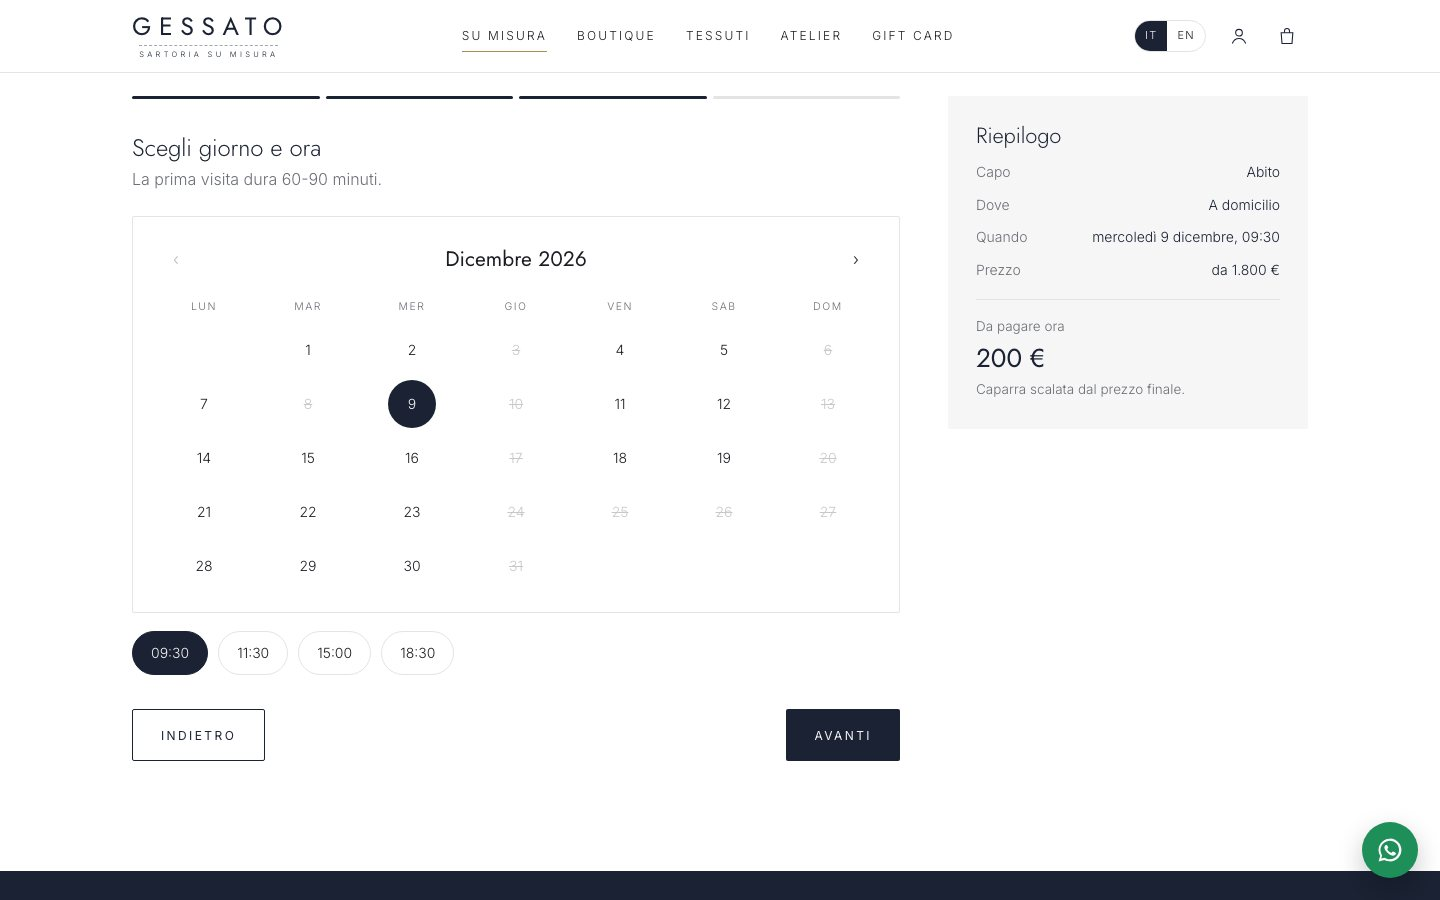
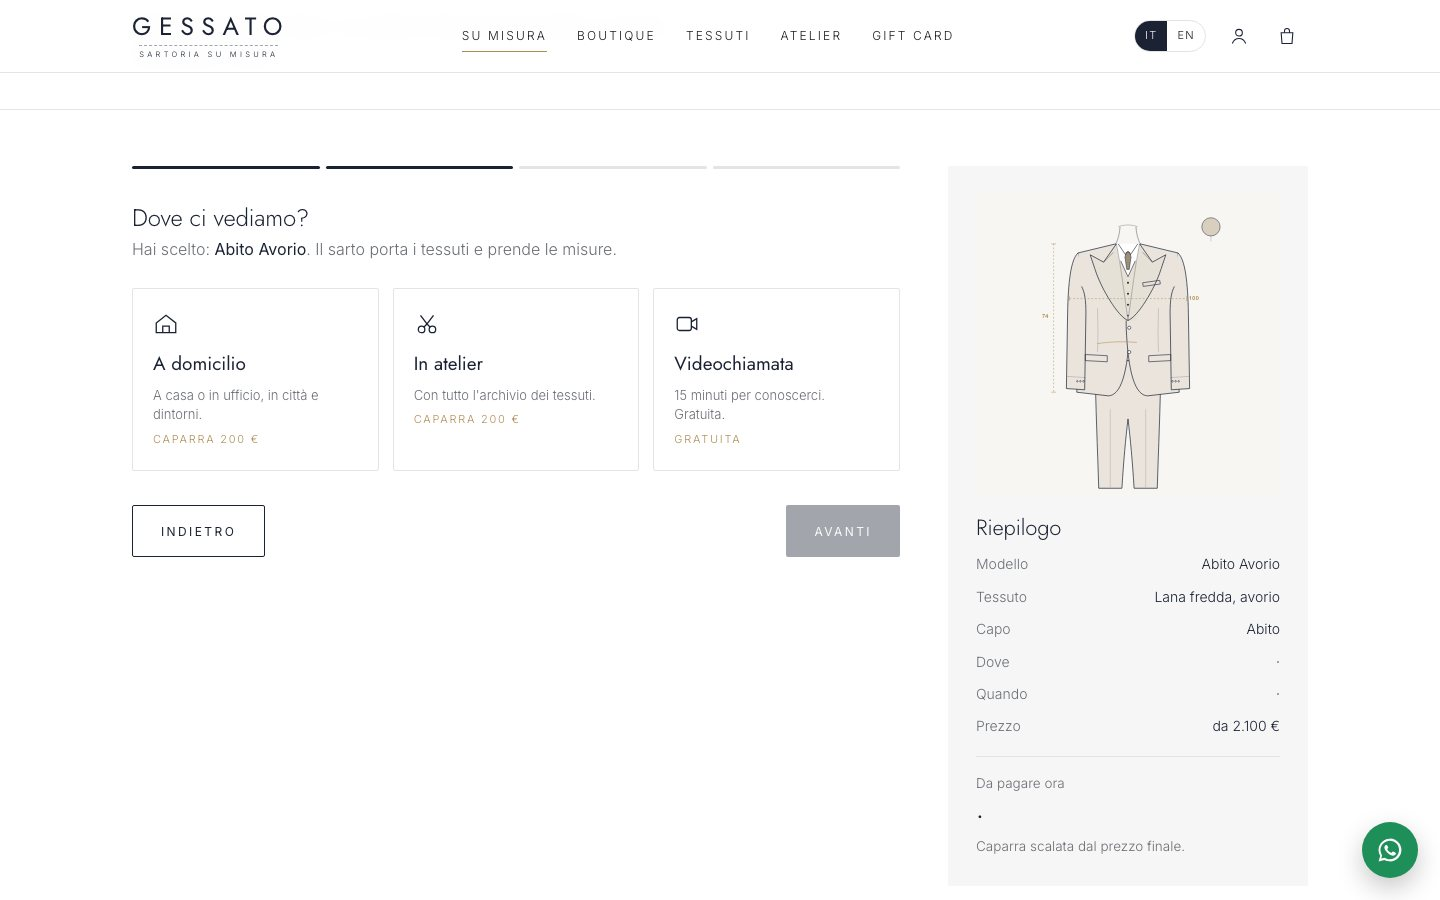
Sartoria: presentazione più leggibile, schermate demo aggiornate

diff --git a/sartoria-presentazione/index.html b/sartoria-presentazione/index.html
@@ -15,29 +15,29 @@
 <link href="https://fonts.googleapis.com/css2?family=Jost:wght@200;300;400&family=Inter:wght@300;400&display=swap" rel="stylesheet">
 <style>
 :root{
-  --ink:#1a2233; --grey:#8a8c90; --grey2:#5f6266; --hair:#e6e6e6; --soft:#f7f7f6; --brass:#b08d57;
+  --ink:#1a2233; --grey:#5a5f69; --grey2:#2b2f38; --brass-t:#86672f; --hair:#e6e6e6; --soft:#f7f7f6; --brass:#b08d57;
   --title:'Jost','Helvetica Neue',Arial,sans-serif; --text:'Inter','Helvetica Neue',Arial,sans-serif;
   --pad:7vw;
 }
 *{box-sizing:border-box;margin:0;padding:0}
 html{scroll-behavior:smooth}
-body{background:#fff;color:var(--ink);font-family:var(--text);font-weight:300;-webkit-font-smoothing:antialiased;text-rendering:optimizeLegibility}
+body{background:#fff;color:var(--ink);font-family:var(--text);font-weight:400;-webkit-font-smoothing:antialiased;text-rendering:optimizeLegibility}
 img{display:block;width:100%;height:100%;object-fit:cover}
 a{color:inherit;text-decoration:none}
 
 /* struttura */
 .s{position:relative;min-height:100vh;padding:14vh var(--pad);display:grid;grid-template-columns:repeat(12,1fr);column-gap:2.2vw;align-content:center}
 .s.flush{padding:0}
-.lbl{font-family:var(--text);font-size:10px;font-weight:400;letter-spacing:.32em;text-transform:uppercase;color:var(--grey)}
-.ttl{font-family:var(--title);font-weight:200;font-size:clamp(30px,3.3vw,52px);line-height:1.14;letter-spacing:.005em;color:var(--ink)}
-.ttl.xl{font-size:clamp(40px,5vw,78px);line-height:1.06}
-.txt{font-size:14px;line-height:1.85;color:var(--grey2);max-width:400px}
+.lbl{font-family:var(--text);font-size:11.5px;font-weight:500;letter-spacing:.26em;text-transform:uppercase;color:var(--grey)}
+.ttl{font-family:var(--title);font-weight:300;font-size:clamp(32px,3.6vw,56px);line-height:1.14;letter-spacing:.005em;color:var(--ink)}
+.ttl.xl{font-size:clamp(42px,5.3vw,82px);line-height:1.06}
+.txt{font-size:17px;line-height:1.6;color:var(--grey2);max-width:440px}
 .txt + .txt{margin-top:14px}
 .line{width:38px;height:1px;background:var(--brass);margin:30px 0}
-.n{font-family:var(--title);font-weight:300;font-size:12px;letter-spacing:.12em;color:var(--brass)}
-.cap{font-size:10px;letter-spacing:.28em;text-transform:uppercase;color:var(--grey);margin-top:14px}
+.n{font-family:var(--title);font-weight:400;font-size:14px;letter-spacing:.1em;color:var(--brass-t)}
+.cap{font-size:11.5px;font-weight:500;letter-spacing:.24em;text-transform:uppercase;color:var(--grey);margin-top:14px}
 .ph{overflow:hidden;background:var(--soft)}
-.link{display:inline-block;font-size:10.5px;letter-spacing:.32em;text-transform:uppercase;color:var(--ink);padding-bottom:6px;border-bottom:1px solid var(--ink);margin-top:34px}
+.link{display:inline-block;font-size:12px;font-weight:500;letter-spacing:.26em;text-transform:uppercase;color:var(--ink);padding-bottom:6px;border-bottom:1px solid var(--ink);margin-top:34px}
 
 /* ingresso morbido */
 .rv{opacity:0;transform:translateY(18px);transition:opacity 1.6s cubic-bezier(.2,.6,.2,1),transform 1.6s cubic-bezier(.2,.6,.2,1)}
@@ -47,8 +47,8 @@ a{color:inherit;text-decoration:none}
 @media (prefers-reduced-motion:reduce){.rv{opacity:1;transform:none;transition:none}}
 
 /* contatore */
-.count{position:fixed;right:var(--pad);bottom:28px;font-family:var(--title);font-size:11px;font-weight:300;letter-spacing:.2em;color:var(--grey);z-index:5;mix-blend-mode:difference;color:#9a9a9a}
-.brand-top{position:fixed;left:var(--pad);top:26px;font-family:var(--title);font-size:11px;font-weight:400;letter-spacing:.42em;color:var(--ink);z-index:5;mix-blend-mode:difference;color:#fff}
+.count{position:fixed;right:var(--pad);bottom:28px;font-family:var(--title);font-size:13px;font-weight:300;letter-spacing:.2em;color:var(--grey);z-index:5;mix-blend-mode:difference;color:#9a9a9a}
+.brand-top{position:fixed;left:var(--pad);top:26px;font-family:var(--title);font-size:12px;font-weight:400;letter-spacing:.42em;color:var(--ink);z-index:5;mix-blend-mode:difference;color:#fff}
 
 /* 01 copertina */
 .cover{grid-template-columns:repeat(12,1fr);padding:0}
@@ -61,7 +61,7 @@ a{color:inherit;text-decoration:none}
 .prob .b{grid-column:7/12;height:64vh;margin-top:8vh}
 .prob .b img{object-position:50% 50%}
 .three{display:flex;gap:34px;margin-top:44px}
-.three span{font-size:10px;letter-spacing:.3em;text-transform:uppercase;color:var(--ink)}
+.three span{font-size:11.5px;font-weight:500;letter-spacing:.24em;text-transform:uppercase;color:var(--ink)}
 
 /* 03 idea */
 .idea .a{grid-column:3/11;text-align:center}
@@ -73,9 +73,9 @@ a{color:inherit;text-decoration:none}
 .lon .im img{object-position:40% 30%}
 .lon .a{grid-column:7/13;align-self:center}
 .idx{margin-top:40px;border-top:1px solid var(--hair)}
-.idx li{list-style:none;display:grid;grid-template-columns:170px 1fr;gap:20px;padding:15px 0;border-bottom:1px solid var(--hair);align-items:baseline}
-.idx b{font-weight:400;font-size:10px;letter-spacing:.26em;text-transform:uppercase;color:var(--ink)}
-.idx span{font-size:13px;color:var(--grey2);line-height:1.6}
+.idx li{list-style:none;display:grid;grid-template-columns:190px 1fr;gap:20px;padding:15px 0;border-bottom:1px solid var(--hair);align-items:baseline}
+.idx b{font-weight:500;font-size:11.5px;letter-spacing:.22em;text-transform:uppercase;color:var(--ink)}
+.idx span{font-size:16px;color:var(--grey2);line-height:1.6}
 
 /* 05 Napoli */
 .nap .a{grid-column:1/7;align-self:center}
@@ -89,20 +89,21 @@ a{color:inherit;text-decoration:none}
 .full .c .lbl{color:var(--grey2)}
 .full .c .ttl{color:var(--ink);margin-top:14px}
 .full .c{z-index:2}
+.full::before{content:"";position:absolute;inset:0;z-index:1;background:linear-gradient(180deg,rgba(255,255,255,.72) 0%,rgba(255,255,255,.45) 34%,rgba(255,255,255,0) 58%);pointer-events:none}
 
 /* 07 struttura */
 .str .a{grid-column:1/5}
 .str .b{grid-column:6/13;columns:2;column-gap:4vw}
 .str .it{break-inside:avoid;padding:0 0 26px}
 .str .it .n{display:block;margin-bottom:8px}
-.str .it h4{font-family:var(--title);font-weight:300;font-size:19px;letter-spacing:.01em;color:var(--ink);margin-bottom:4px}
-.str .it p{font-size:12.5px;color:var(--grey);line-height:1.65}
+.str .it h4{font-family:var(--title);font-weight:400;font-size:21px;letter-spacing:.01em;color:var(--ink);margin-bottom:4px}
+.str .it p{font-size:16px;color:var(--grey2);line-height:1.6}
 
 /* 08 percorso */
 .per .a{grid-column:1/8}
 .per .steps{grid-column:1/13;display:grid;grid-template-columns:repeat(6,1fr);gap:2.2vw;margin-top:9vh;border-top:1px solid var(--hair);padding-top:26px}
-.per .steps h4{font-family:var(--title);font-weight:300;font-size:18px;margin:10px 0 6px}
-.per .steps p{font-size:12.5px;color:var(--grey);line-height:1.65}
+.per .steps h4{font-family:var(--title);font-weight:400;font-size:20px;margin:10px 0 6px}
+.per .steps p{font-size:15.5px;color:var(--grey2);line-height:1.6}
 .per .im{grid-column:9/13;grid-row:1;height:34vh;align-self:start}
 
 /* 09 demo */
@@ -120,7 +121,7 @@ a{color:inherit;text-decoration:none}
 /* 11 due idee */
 .two .p1{grid-column:1/6}.two .p2{grid-column:8/13;margin-top:18vh}
 .two .im{height:56vh}
-.two h4{font-family:var(--title);font-weight:300;font-size:22px;margin:26px 0 10px;color:var(--ink)}
+.two h4{font-family:var(--title);font-weight:400;font-size:24px;margin:26px 0 10px;color:var(--ink)}
 
 /* 12 brand */
 .brd .a{grid-column:1/5;align-self:center}
@@ -129,9 +130,9 @@ a{color:inherit;text-decoration:none}
 .pal{display:flex;gap:28px;margin-top:9vh}
 .pal div{display:flex;flex-direction:column;align-items:center;gap:12px}
 .pal i{width:34px;height:34px;border-radius:50%;display:block;border:1px solid var(--hair)}
-.pal span{font-size:9px;letter-spacing:.26em;text-transform:uppercase;color:var(--grey)}
-.typ{margin-top:34px;display:grid;grid-template-columns:auto 1fr;gap:10px 22px;font-size:12.5px;color:var(--grey2)}
-.typ b{font-weight:400;font-size:10px;letter-spacing:.26em;text-transform:uppercase;color:var(--ink)}
+.pal span{font-size:11px;font-weight:500;letter-spacing:.2em;text-transform:uppercase;color:var(--grey)}
+.typ{margin-top:34px;display:grid;grid-template-columns:auto 1fr;gap:10px 22px;font-size:16px;color:var(--grey2)}
+.typ b{font-weight:500;font-size:11.5px;letter-spacing:.22em;align-self:center;text-transform:uppercase;color:var(--ink)}
 
 /* 13 instagram */
 .ig .im{grid-column:1/7;height:auto}
@@ -141,7 +142,7 @@ a{color:inherit;text-decoration:none}
 /* 14 passi */
 .nx .a{grid-column:1/6}
 .nx ol{grid-column:7/13;list-style:none}
-.nx li{display:grid;grid-template-columns:60px 1fr;padding:22px 0;border-bottom:1px solid var(--hair);font-family:var(--title);font-weight:300;font-size:19px;line-height:1.45;color:var(--ink)}
+.nx li{display:grid;grid-template-columns:60px 1fr;padding:22px 0;border-bottom:1px solid var(--hair);font-family:var(--title);font-weight:400;font-size:21px;line-height:1.45;color:var(--ink)}
 .nx li:first-child{border-top:1px solid var(--hair)}
 
 /* 15 domande */
@@ -149,19 +150,22 @@ a{color:inherit;text-decoration:none}
 .qs .cols{grid-column:1/13;columns:3;column-gap:4vw}
 .qs .g{break-inside:avoid;margin-bottom:38px}
 .qs .g .lbl{color:var(--ink);display:block;padding-bottom:12px;border-bottom:1px solid var(--hair);margin-bottom:8px}
-.qs .g p{font-size:12.5px;line-height:1.7;color:var(--grey2);padding:8px 0;display:grid;grid-template-columns:26px 1fr}
-.qs .g p i{font-style:normal;font-family:var(--title);color:var(--brass);font-size:11px;padding-top:2px}
+.qs .g p{font-size:15.5px;line-height:1.6;color:var(--ink);padding:9px 0;display:grid;grid-template-columns:32px 1fr}
+.qs .g p i{font-style:normal;font-family:var(--title);color:var(--brass-t);font-size:14px;font-weight:400;padding-top:1px}
 
 /* 16 chiusura */
 .end{display:flex;flex-direction:column;align-items:center;justify-content:center;text-align:center;min-height:100vh;padding:14vh var(--pad)}
 .end .logo{width:min(300px,60%);height:auto}
-.end .ttl{font-size:clamp(20px,1.8vw,26px);margin-top:7vh;color:var(--grey2)}
+.end .ttl{font-size:clamp(22px,2vw,30px);margin-top:7vh;color:var(--ink)}
 
 @media (max-width:900px){
+  .txt,.str .it p,.idx span,.typ{font-size:16px}
+  .full::before{display:none}
+  .qs .g p{font-size:15.5px}
   :root{--pad:24px}
   .s{display:block;min-height:0;padding:96px var(--pad)}
-  .ttl{font-size:28px}
-  .ttl.xl{font-size:38px}
+  .ttl{font-size:30px}
+  .ttl.xl{font-size:40px}
   .txt{font-size:14px}
   .cover{display:flex;flex-direction:column;padding:0}
   .cover .im{height:68vh;order:-1}
@@ -325,8 +329,8 @@ a{color:inherit;text-decoration:none}
   <div class="a">
     <div class="lbl rv">Dentro la demo</div>
   </div>
-  <figure class="p1 rv"><img src="img/demo-pren.jpg" alt="Prenotazione con calendario"><figcaption class="cap">Prenota il sarto</figcaption></figure>
-  <figure class="p2 rv d1"><img src="img/demo-gift.jpg" alt="Gift card"><figcaption class="cap">Gift card</figcaption></figure>
+  <figure class="p1 rv"><img src="img/demo-boutique.jpg" alt="Boutique con i figurini dei modelli"><figcaption class="cap">Boutique · i modelli</figcaption></figure>
+  <figure class="p2 rv d1"><img src="img/demo-pren.jpg" alt="Prenotazione già compilata con il modello scelto"><figcaption class="cap">Prenota il sarto</figcaption></figure>
   <figure class="p3 rv d2"><img src="img/demo-area.jpg" alt="Area cliente con le misure salvate"><figcaption class="cap">Area cliente</figcaption></figure>
 </section>
 
